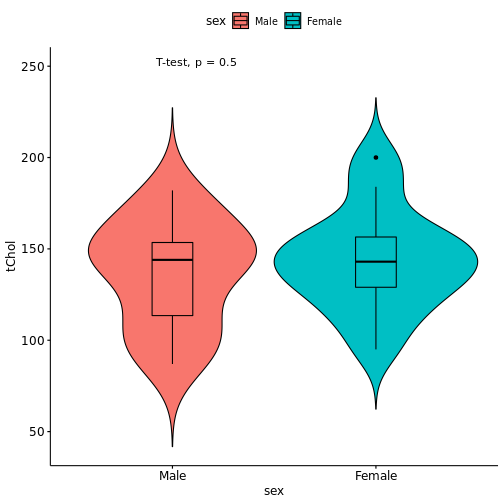
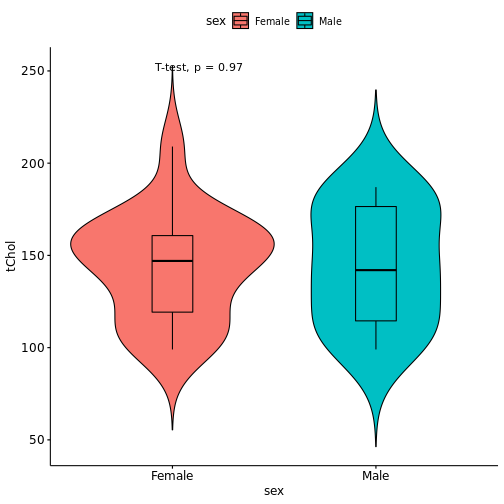
s

diff --git a/docs/statreview/index.html b/docs/statreview/index.html
@@ -172,8 +172,8 @@ https://www.evanmiller.org/ab-testing/t-test.html 에서 바로 가능.
 
 ---
 
-<div id="htmlwidget-b1c8f5c8c3e6e6fd1508" style="width:100%;height:auto;" class="datatables html-widget"></div>
-<script type="application/json" data-for="htmlwidget-b1c8f5c8c3e6e6fd1508">{"x":{"filter":"none","vertical":false,"caption":"<caption>data.t: sex and total cholesterol<\/caption>","data":[["person 1","person 2","person 3","person 4","person 5","person 6","person 7","person 8","person 9","person 10","person 11","person 12","person 13","person 14","person 15","person 16","person 17","person 18","person 19","person 20","person 21","person 22","person 23","person 24","person 25","person 26","person 27","person 28","person 29","person 30"],["Male","Female","Female","Male","Male","Male","Female","Female","Male","Male","Male","Female","Female","Female","Female","Female","Female","Male","Female","Male","Male","Female","Male","Male","Female","Male","Female","Male","Male","Male"],[147,132,184,147,117,87,158,95,103,161,173,200,118,149,164,152,145,167,141,103,145,111,123,92,135,151,128,143,143,182]],"container":"<table class=\"display\">\n  <thead>\n    <tr>\n      <th> <\/th>\n      <th>sex<\/th>\n      <th>tChol<\/th>\n    <\/tr>\n  <\/thead>\n<\/table>","options":{"columnDefs":[{"className":"dt-right","targets":2},{"orderable":false,"targets":0}],"order":[],"autoWidth":false,"orderClasses":false}},"evals":[],"jsHooks":[]}</script>
+<div id="htmlwidget-796070962a9c25656bee" style="width:100%;height:auto;" class="datatables html-widget"></div>
+<script type="application/json" data-for="htmlwidget-796070962a9c25656bee">{"x":{"filter":"none","vertical":false,"caption":"<caption>data.t: sex and total cholesterol<\/caption>","data":[["person 1","person 2","person 3","person 4","person 5","person 6","person 7","person 8","person 9","person 10","person 11","person 12","person 13","person 14","person 15","person 16","person 17","person 18","person 19","person 20","person 21","person 22","person 23","person 24","person 25","person 26","person 27","person 28","person 29","person 30"],["Female","Male","Male","Female","Male","Female","Female","Male","Female","Female","Female","Male","Female","Female","Female","Female","Male","Female","Male","Male","Female","Male","Female","Male","Female","Female","Female","Male","Female","Male"],[105,99,185,159,176,147,141,139,145,103,160,138,99,147,160,161,145,164,115,105,129,178,172,158,209,116,115,113,167,187]],"container":"<table class=\"display\">\n  <thead>\n    <tr>\n      <th> <\/th>\n      <th>sex<\/th>\n      <th>tChol<\/th>\n    <\/tr>\n  <\/thead>\n<\/table>","options":{"columnDefs":[{"className":"dt-right","targets":2},{"orderable":false,"targets":0}],"order":[],"autoWidth":false,"orderClasses":false}},"evals":[],"jsHooks":[]}</script>
 
 ---
 
@@ -188,17 +188,17 @@ nev.ttest
 ## 	Welch Two Sample t-test
 ## 
 ## data:  tChol by sex
-## t = 0.69251, df = 27.765, p-value = 0.4944
+## t = -0.038738, df = 21.894, p-value = 0.9695
 ## alternative hypothesis: true difference in means between group Female and group Male is not equal to 0
 ## 95 percent confidence interval:
-##  -14.13327  28.56185
+##  -24.24493  23.35604
 ## sample estimates:
 ## mean in group Female   mean in group Male 
-##             143.7143             136.5000
+##             144.3889             144.8333
 ```
 
 .large[
-여자의 평균 콜레스테롤 값은 143.7, 남자는 136.5 이고 `\(p\)`-value는 0.494  
+여자의 평균 콜레스테롤 값은 144.4, 남자는 144.8 이고 `\(p\)`-value는 0.969  
 
 ]
 
@@ -218,17 +218,17 @@ ev.ttest
 ## 	Two Sample t-test
 ## 
 ## data:  tChol by sex
-## t = 0.6903, df = 28, p-value = 0.4957
+## t = -0.039616, df = 28, p-value = 0.9687
 ## alternative hypothesis: true difference in means between group Female and group Male is not equal to 0
 ## 95 percent confidence interval:
-##  -14.19356  28.62213
+##  -23.42524  22.53635
 ## sample estimates:
 ## mean in group Female   mean in group Male 
-##             143.7143             136.5000
+##             144.3889             144.8333
 ```
 
 
-앞서는 **Welch t-test** 였는데 이름이 바뀐 것을 확인할 수 있고 `\(p\)`-value도 0.496로 다름. 
+앞서는 **Welch t-test** 였는데 이름이 바뀐 것을 확인할 수 있고 `\(p\)`-value도 0.969로 다름. 
 - 특별한 경우가 아니고서야 위험한 등분산가정을 할 필요가 없음.   
 
 - **R** 에서 디폴트도 `F` 임.
@@ -284,7 +284,7 @@ res.wilcox
 ## 	Wilcoxon rank sum test with continuity correction
 ## 
 ## data:  tChol by sex
-## W = 123.5, p-value = 0.6473
+## W = 109, p-value = 0.9831
 ## alternative hypothesis: true location shift is not equal to 0
 ```
 
@@ -314,8 +314,8 @@ res.wilcox
 
 ---
 
-<div id="htmlwidget-c174424942672d0b5ef6" style="width:100%;height:auto;" class="datatables html-widget"></div>
-<script type="application/json" data-for="htmlwidget-c174424942672d0b5ef6">{"x":{"filter":"none","vertical":false,"caption":"<caption>data.t: group and total cholesterol<\/caption>","data":[["person 1","person 2","person 3","person 4","person 5","person 6","person 7","person 8","person 9","person 10","person 11","person 12","person 13","person 14","person 15","person 16","person 17","person 18","person 19","person 20","person 21","person 22","person 23","person 24","person 25","person 26","person 27","person 28","person 29","person 30"],["C","C","C","B","C","B","B","B","C","A","B","B","A","B","C","A","C","C","A","A","A","A","C","B","C","B","A","B","C","B"],[148,126,128,144,140,117,147,182,146,115,125,171,140,111,132,146,177,145,160,53,127,159,113,163,174,145,187,122,162,162]],"container":"<table class=\"display\">\n  <thead>\n    <tr>\n      <th> <\/th>\n      <th>group<\/th>\n      <th>tChol<\/th>\n    <\/tr>\n  <\/thead>\n<\/table>","options":{"columnDefs":[{"className":"dt-right","targets":2},{"orderable":false,"targets":0}],"order":[],"autoWidth":false,"orderClasses":false}},"evals":[],"jsHooks":[]}</script>
+<div id="htmlwidget-ea3c3b48b7390b931fce" style="width:100%;height:auto;" class="datatables html-widget"></div>
+<script type="application/json" data-for="htmlwidget-ea3c3b48b7390b931fce">{"x":{"filter":"none","vertical":false,"caption":"<caption>data.t: group and total cholesterol<\/caption>","data":[["person 1","person 2","person 3","person 4","person 5","person 6","person 7","person 8","person 9","person 10","person 11","person 12","person 13","person 14","person 15","person 16","person 17","person 18","person 19","person 20","person 21","person 22","person 23","person 24","person 25","person 26","person 27","person 28","person 29","person 30"],["C","C","C","B","C","B","B","B","C","A","B","B","A","B","C","A","C","C","A","A","A","A","C","B","C","B","A","B","C","B"],[148,126,128,144,140,117,147,182,146,115,125,171,140,111,132,146,177,145,160,53,127,159,113,163,174,145,187,122,162,162]],"container":"<table class=\"display\">\n  <thead>\n    <tr>\n      <th> <\/th>\n      <th>group<\/th>\n      <th>tChol<\/th>\n    <\/tr>\n  <\/thead>\n<\/table>","options":{"columnDefs":[{"className":"dt-right","targets":2},{"orderable":false,"targets":0}],"order":[],"autoWidth":false,"orderClasses":false}},"evals":[],"jsHooks":[]}</script>
 
 ---
 
@@ -412,8 +412,8 @@ class: center, middle
 
 ---
 
-<div id="htmlwidget-8718a3f57f0966ef9180" style="width:100%;height:auto;" class="datatables html-widget"></div>
-<script type="application/json" data-for="htmlwidget-8718a3f57f0966ef9180">{"x":{"filter":"none","vertical":false,"caption":"<caption>data.chi: HTN &amp; DM medication<\/caption>","data":[["person 1","person 2","person 3","person 4","person 5","person 6","person 7","person 8","person 9","person 10","person 11","person 12","person 13","person 14","person 15","person 16","person 17","person 18","person 19","person 20","person 21","person 22","person 23","person 24","person 25","person 26","person 27","person 28","person 29","person 30","person 31","person 32","person 33","person 34","person 35","person 36","person 37","person 38","person 39","person 40","person 41","person 42","person 43","person 44","person 45","person 46","person 47","person 48","person 49","person 50"],[1,0,0,0,1,1,0,0,0,0,0,0,0,1,1,0,1,0,0,0,1,0,0,0,0,1,1,0,0,1,0,1,0,0,0,1,1,0,0,1,1,1,1,1,0,1,1,1,0,1],[0,0,1,1,0,0,0,0,1,1,0,0,1,1,0,1,0,0,0,0,1,0,1,0,0,0,0,0,1,0,0,1,1,0,0,1,1,1,1,0,1,1,0,0,1,0,0,1,1,0]],"container":"<table class=\"display\">\n  <thead>\n    <tr>\n      <th> <\/th>\n      <th>HTN_medi<\/th>\n      <th>DM_medi<\/th>\n    <\/tr>\n  <\/thead>\n<\/table>","options":{"columnDefs":[{"className":"dt-right","targets":[1,2]},{"orderable":false,"targets":0}],"order":[],"autoWidth":false,"orderClasses":false}},"evals":[],"jsHooks":[]}</script>
+<div id="htmlwidget-10b107f1511a753fd08e" style="width:100%;height:auto;" class="datatables html-widget"></div>
+<script type="application/json" data-for="htmlwidget-10b107f1511a753fd08e">{"x":{"filter":"none","vertical":false,"caption":"<caption>data.chi: HTN &amp; DM medication<\/caption>","data":[["person 1","person 2","person 3","person 4","person 5","person 6","person 7","person 8","person 9","person 10","person 11","person 12","person 13","person 14","person 15","person 16","person 17","person 18","person 19","person 20","person 21","person 22","person 23","person 24","person 25","person 26","person 27","person 28","person 29","person 30","person 31","person 32","person 33","person 34","person 35","person 36","person 37","person 38","person 39","person 40","person 41","person 42","person 43","person 44","person 45","person 46","person 47","person 48","person 49","person 50"],[1,0,0,0,1,1,0,0,0,0,0,0,0,1,1,0,1,0,0,0,1,0,0,0,0,1,1,0,0,1,0,1,0,0,0,1,1,0,0,1,1,1,1,1,0,1,1,1,0,1],[0,0,1,1,0,0,0,0,1,1,0,0,1,1,0,1,0,0,0,0,1,0,1,0,0,0,0,0,1,0,0,1,1,0,0,1,1,1,1,0,1,1,0,0,1,0,0,1,1,0]],"container":"<table class=\"display\">\n  <thead>\n    <tr>\n      <th> <\/th>\n      <th>HTN_medi<\/th>\n      <th>DM_medi<\/th>\n    <\/tr>\n  <\/thead>\n<\/table>","options":{"columnDefs":[{"className":"dt-right","targets":[1,2]},{"orderable":false,"targets":0}],"order":[],"autoWidth":false,"orderClasses":false}},"evals":[],"jsHooks":[]}</script>
 
 
 ---
@@ -462,8 +462,8 @@ res.chi
 
 ---
 
-<div id="htmlwidget-c0b0607f89ef6b0f8516" style="width:100%;height:auto;" class="datatables html-widget"></div>
-<script type="application/json" data-for="htmlwidget-c0b0607f89ef6b0f8516">{"x":{"filter":"none","vertical":false,"caption":"<caption>data.fisher: HTN &amp; DM medication<\/caption>","data":[["person 1","person 2","person 3","person 4","person 5","person 6","person 7","person 8","person 9","person 10","person 11","person 12","person 13","person 14","person 15","person 16","person 17","person 18","person 19","person 20","person 21","person 22","person 23","person 24","person 25","person 26","person 27","person 28","person 29","person 30","person 31","person 32","person 33","person 34","person 35","person 36","person 37","person 38","person 39","person 40","person 41","person 42","person 43","person 44","person 45","person 46","person 47","person 48","person 49","person 50"],[1,0,0,0,1,1,0,0,0,0,0,0,0,0,1,0,0,0,0,0,1,0,0,0,0,1,0,0,0,1,0,0,0,0,0,1,0,0,0,0,0,1,0,0,0,0,1,0,0,1],[0,0,0,1,0,0,0,0,1,0,0,0,0,1,0,1,0,0,0,0,0,0,0,0,0,0,0,0,1,0,0,0,0,0,0,1,1,1,1,0,0,1,0,0,0,0,0,0,0,0]],"container":"<table class=\"display\">\n  <thead>\n    <tr>\n      <th> <\/th>\n      <th>HTN_medi<\/th>\n      <th>DM_medi<\/th>\n    <\/tr>\n  <\/thead>\n<\/table>","options":{"columnDefs":[{"className":"dt-right","targets":[1,2]},{"orderable":false,"targets":0}],"order":[],"autoWidth":false,"orderClasses":false}},"evals":[],"jsHooks":[]}</script>
+<div id="htmlwidget-e3ae0e680d4b66eb8c68" style="width:100%;height:auto;" class="datatables html-widget"></div>
+<script type="application/json" data-for="htmlwidget-e3ae0e680d4b66eb8c68">{"x":{"filter":"none","vertical":false,"caption":"<caption>data.fisher: HTN &amp; DM medication<\/caption>","data":[["person 1","person 2","person 3","person 4","person 5","person 6","person 7","person 8","person 9","person 10","person 11","person 12","person 13","person 14","person 15","person 16","person 17","person 18","person 19","person 20","person 21","person 22","person 23","person 24","person 25","person 26","person 27","person 28","person 29","person 30","person 31","person 32","person 33","person 34","person 35","person 36","person 37","person 38","person 39","person 40","person 41","person 42","person 43","person 44","person 45","person 46","person 47","person 48","person 49","person 50"],[1,0,0,0,1,1,0,0,0,0,0,0,0,0,1,0,0,0,0,0,1,0,0,0,0,1,0,0,0,1,0,0,0,0,0,1,0,0,0,0,0,1,0,0,0,0,1,0,0,1],[0,0,0,1,0,0,0,0,1,0,0,0,0,1,0,1,0,0,0,0,0,0,0,0,0,0,0,0,1,0,0,0,0,0,0,1,1,1,1,0,0,1,0,0,0,0,0,0,0,0]],"container":"<table class=\"display\">\n  <thead>\n    <tr>\n      <th> <\/th>\n      <th>HTN_medi<\/th>\n      <th>DM_medi<\/th>\n    <\/tr>\n  <\/thead>\n<\/table>","options":{"columnDefs":[{"className":"dt-right","targets":[1,2]},{"orderable":false,"targets":0}],"order":[],"autoWidth":false,"orderClasses":false}},"evals":[],"jsHooks":[]}</script>
 
 ---
 
@@ -565,8 +565,8 @@ class: center, middle
 
 
 ---
-<div id="htmlwidget-2ee2c4466c84311ffb87" style="width:100%;height:auto;" class="datatables html-widget"></div>
-<script type="application/json" data-for="htmlwidget-2ee2c4466c84311ffb87">{"x":{"filter":"none","vertical":false,"caption":"<caption>data.pt: systolic blood pressure measured by hand &amp; machine<\/caption>","data":[["person 1","person 2","person 3","person 4","person 5","person 6","person 7","person 8","person 9","person 10","person 11","person 12","person 13","person 14","person 15","person 16","person 17","person 18","person 19","person 20","person 21","person 22","person 23","person 24","person 25","person 26","person 27","person 28","person 29","person 30"],[128,128,120,119,124,130,127,131,127,120,119,131,129,129,125,129,126,132,123,111,125,125,119,112,129,126,125,128,125,128],[128,119,119,126,118,124,128,129,117,130,123,128,128,133,127,126,127,119,122,125,124,127,128,126,127,123,129,123,142,123]],"container":"<table class=\"display\">\n  <thead>\n    <tr>\n      <th> <\/th>\n      <th>SBP_hand<\/th>\n      <th>SBP_machine<\/th>\n    <\/tr>\n  <\/thead>\n<\/table>","options":{"columnDefs":[{"className":"dt-right","targets":[1,2]},{"orderable":false,"targets":0}],"order":[],"autoWidth":false,"orderClasses":false}},"evals":[],"jsHooks":[]}</script>
+<div id="htmlwidget-d009e1ca0f756527b9c5" style="width:100%;height:auto;" class="datatables html-widget"></div>
+<script type="application/json" data-for="htmlwidget-d009e1ca0f756527b9c5">{"x":{"filter":"none","vertical":false,"caption":"<caption>data.pt: systolic blood pressure measured by hand &amp; machine<\/caption>","data":[["person 1","person 2","person 3","person 4","person 5","person 6","person 7","person 8","person 9","person 10","person 11","person 12","person 13","person 14","person 15","person 16","person 17","person 18","person 19","person 20","person 21","person 22","person 23","person 24","person 25","person 26","person 27","person 28","person 29","person 30"],[128,128,120,119,124,130,127,131,127,120,119,131,129,129,125,129,126,132,123,111,125,125,119,112,129,126,125,128,125,128],[128,119,119,126,118,124,128,129,117,130,123,128,128,133,127,126,127,119,122,125,124,127,128,126,127,123,129,123,142,123]],"container":"<table class=\"display\">\n  <thead>\n    <tr>\n      <th> <\/th>\n      <th>SBP_hand<\/th>\n      <th>SBP_machine<\/th>\n    <\/tr>\n  <\/thead>\n<\/table>","options":{"columnDefs":[{"className":"dt-right","targets":[1,2]},{"orderable":false,"targets":0}],"order":[],"autoWidth":false,"orderClasses":false}},"evals":[],"jsHooks":[]}</script>
 
 
 ---
@@ -664,8 +664,8 @@ class: center, middle
 
 ---
 
-<div id="htmlwidget-f091f83bafd7dfe15a46" style="width:100%;height:auto;" class="datatables html-widget"></div>
-<script type="application/json" data-for="htmlwidget-f091f83bafd7dfe15a46">{"x":{"filter":"none","vertical":false,"caption":"<caption>data.mc: Abdominal pain - before &amp; after<\/caption>","data":[["person 1","person 2","person 3","person 4","person 5","person 6","person 7","person 8","person 9","person 10","person 11","person 12","person 13","person 14","person 15","person 16","person 17","person 18","person 19","person 20","person 21","person 22","person 23","person 24","person 25","person 26","person 27","person 28","person 29","person 30"],[0,1,0,0,0,1,0,0,0,0,1,1,0,1,0,1,1,0,0,0,1,1,1,0,1,1,0,1,0,1],[0,1,1,0,1,0,0,0,0,1,0,0,0,1,1,0,1,0,1,1,1,0,0,1,0,0,0,1,1,0]],"container":"<table class=\"display\">\n  <thead>\n    <tr>\n      <th> <\/th>\n      <th>Pain_before<\/th>\n      <th>Pain_after<\/th>\n    <\/tr>\n  <\/thead>\n<\/table>","options":{"columnDefs":[{"className":"dt-right","targets":[1,2]},{"orderable":false,"targets":0}],"order":[],"autoWidth":false,"orderClasses":false}},"evals":[],"jsHooks":[]}</script>
+<div id="htmlwidget-30ec702f5a872c94f4c6" style="width:100%;height:auto;" class="datatables html-widget"></div>
+<script type="application/json" data-for="htmlwidget-30ec702f5a872c94f4c6">{"x":{"filter":"none","vertical":false,"caption":"<caption>data.mc: Abdominal pain - before &amp; after<\/caption>","data":[["person 1","person 2","person 3","person 4","person 5","person 6","person 7","person 8","person 9","person 10","person 11","person 12","person 13","person 14","person 15","person 16","person 17","person 18","person 19","person 20","person 21","person 22","person 23","person 24","person 25","person 26","person 27","person 28","person 29","person 30"],[0,1,0,0,0,1,0,0,0,0,1,1,0,1,0,1,1,0,0,0,1,1,1,0,1,1,0,1,0,1],[0,1,1,0,1,0,0,0,0,1,0,0,0,1,1,0,1,0,1,1,1,0,0,1,0,0,0,1,1,0]],"container":"<table class=\"display\">\n  <thead>\n    <tr>\n      <th> <\/th>\n      <th>Pain_before<\/th>\n      <th>Pain_after<\/th>\n    <\/tr>\n  <\/thead>\n<\/table>","options":{"columnDefs":[{"className":"dt-right","targets":[1,2]},{"orderable":false,"targets":0}],"order":[],"autoWidth":false,"orderClasses":false}},"evals":[],"jsHooks":[]}</script>
 
 ---
 
@@ -784,9 +784,8 @@ nominalSymmetryTest(AndersonRainGarden)
 **단변량, 다변량 같이** 보여주면 좋음
 ]
 
-&lt;center&gt;
-&lt;img src="https://www.researchgate.net/publication/316728873/figure/tbl4/AS:667604591071246@1536180746489/Univariate-analysis-and-multivariate-analysis-of-factors-associated-with-SVCS-3.png" width=55%&gt;&lt;/a&gt;
-&lt;/center&gt;
+![](https://www.researchgate.net/publication/316728873/figure/tbl4/AS:667604591071246@1536180746489/Univariate-analysis-and-multivariate-analysis-of-factors-associated-with-SVCS-3.png)
+
 
 ---
 # Stepwise selection
